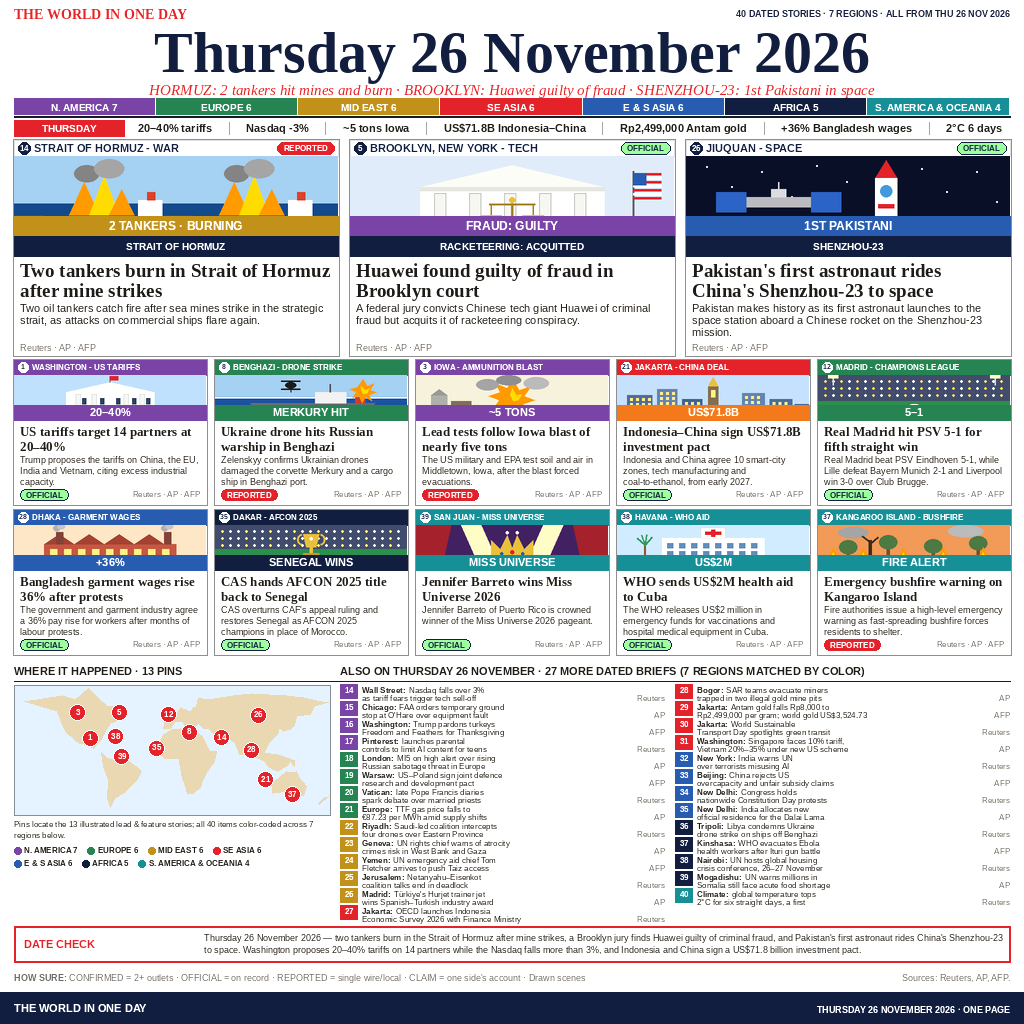
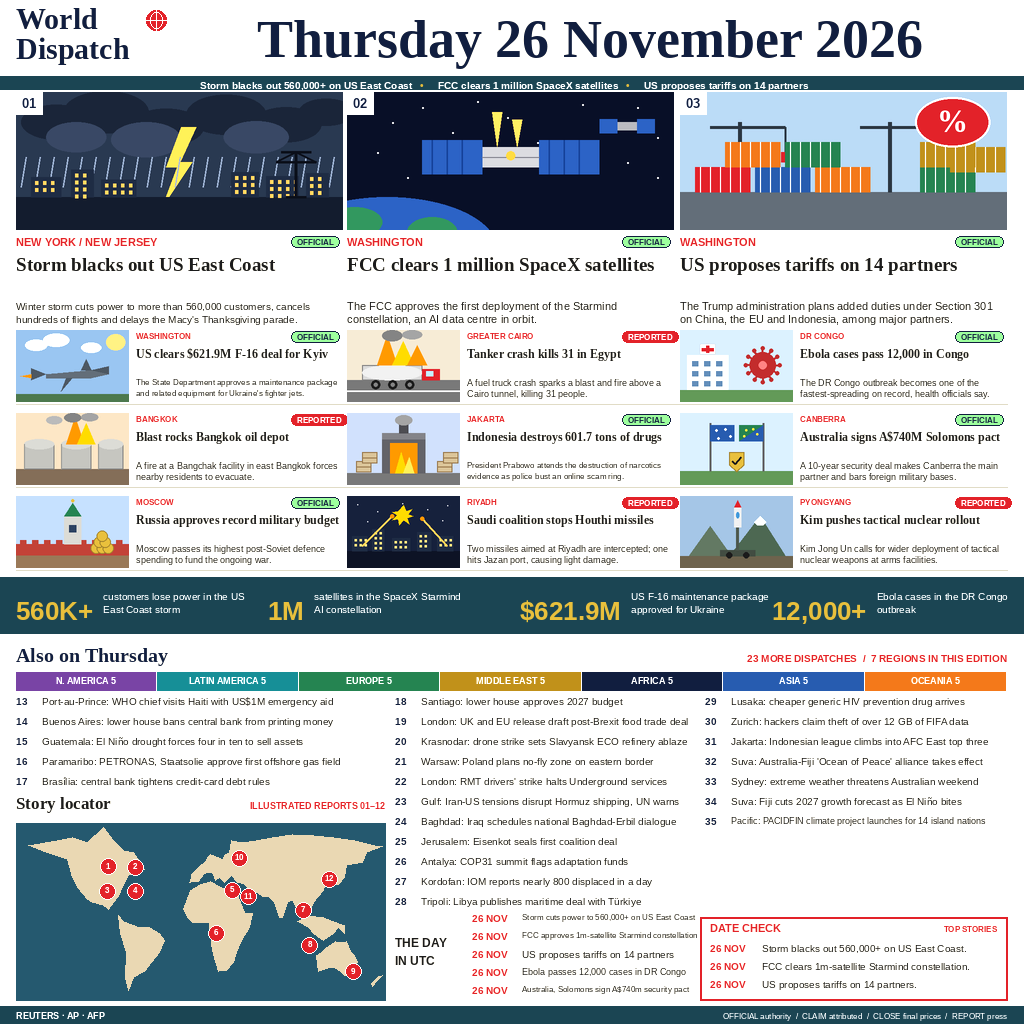
Resubmit: World Dispatch layout, Mana's new 35 stories (Thu 26 Nov 2026)

diff --git a/main.py b/main.py
@@ -1,8 +1,9 @@
 """News image entry for make.fun bounty news-image-20261126.
 
 This program copies the finished one-page newspaper image
-(``entry.png``, 1024x1024, 40 stories from Thursday 26 November 2026)
-to ``/output/entry.png`` so the grader can find it.
+(``entry.png``, 1024x1024, 35 stories from Thursday 26 November 2026,
+World Dispatch layout) to ``/output/entry.png`` so the grader can
+find it.
 
 The image is pre-rendered and shipped with this repository; this
 entrypoint performs no network access and needs nothing beyond the

diff --git a/README.md b/README.md
@@ -1,6 +1,6 @@
-# Thursday 26 November 2026: The World in One Day — from Mana's 40 stories
+# Thursday 26 November 2026: The World in One Day — from Mana's 35 stories
 
-Entry for the make.fun competition [news-image-20261126](https://make.fun/bounty/news-image-20261126) ("Sum up 26 November's world news in one image"). The program `main.py` copies the finished one-page newspaper image (1024×1024, 40 stories from Thursday 26 November 2026, 7 regions) to `/output/entry.png`.
+Entry for the make.fun competition [news-image-20261126](https://make.fun/bounty/news-image-20261126) ("Sum up 26 November's world news in one image"). The program `main.py` copies the finished one-page newspaper image (1024×1024, 35 stories from Thursday 26 November 2026, 7 regions, World Dispatch layout) to `/output/entry.png`.
 
 [![news-image-20261126](https://make.fun/badge/news-image-20261126.svg)](https://make.fun/bounty/news-image-20261126)
 [![rank](https://make.fun/badge/news-image-20261126/claymoreth/news-image-20261126/rank.svg)](https://make.fun/bounty/news-image-20261126)
